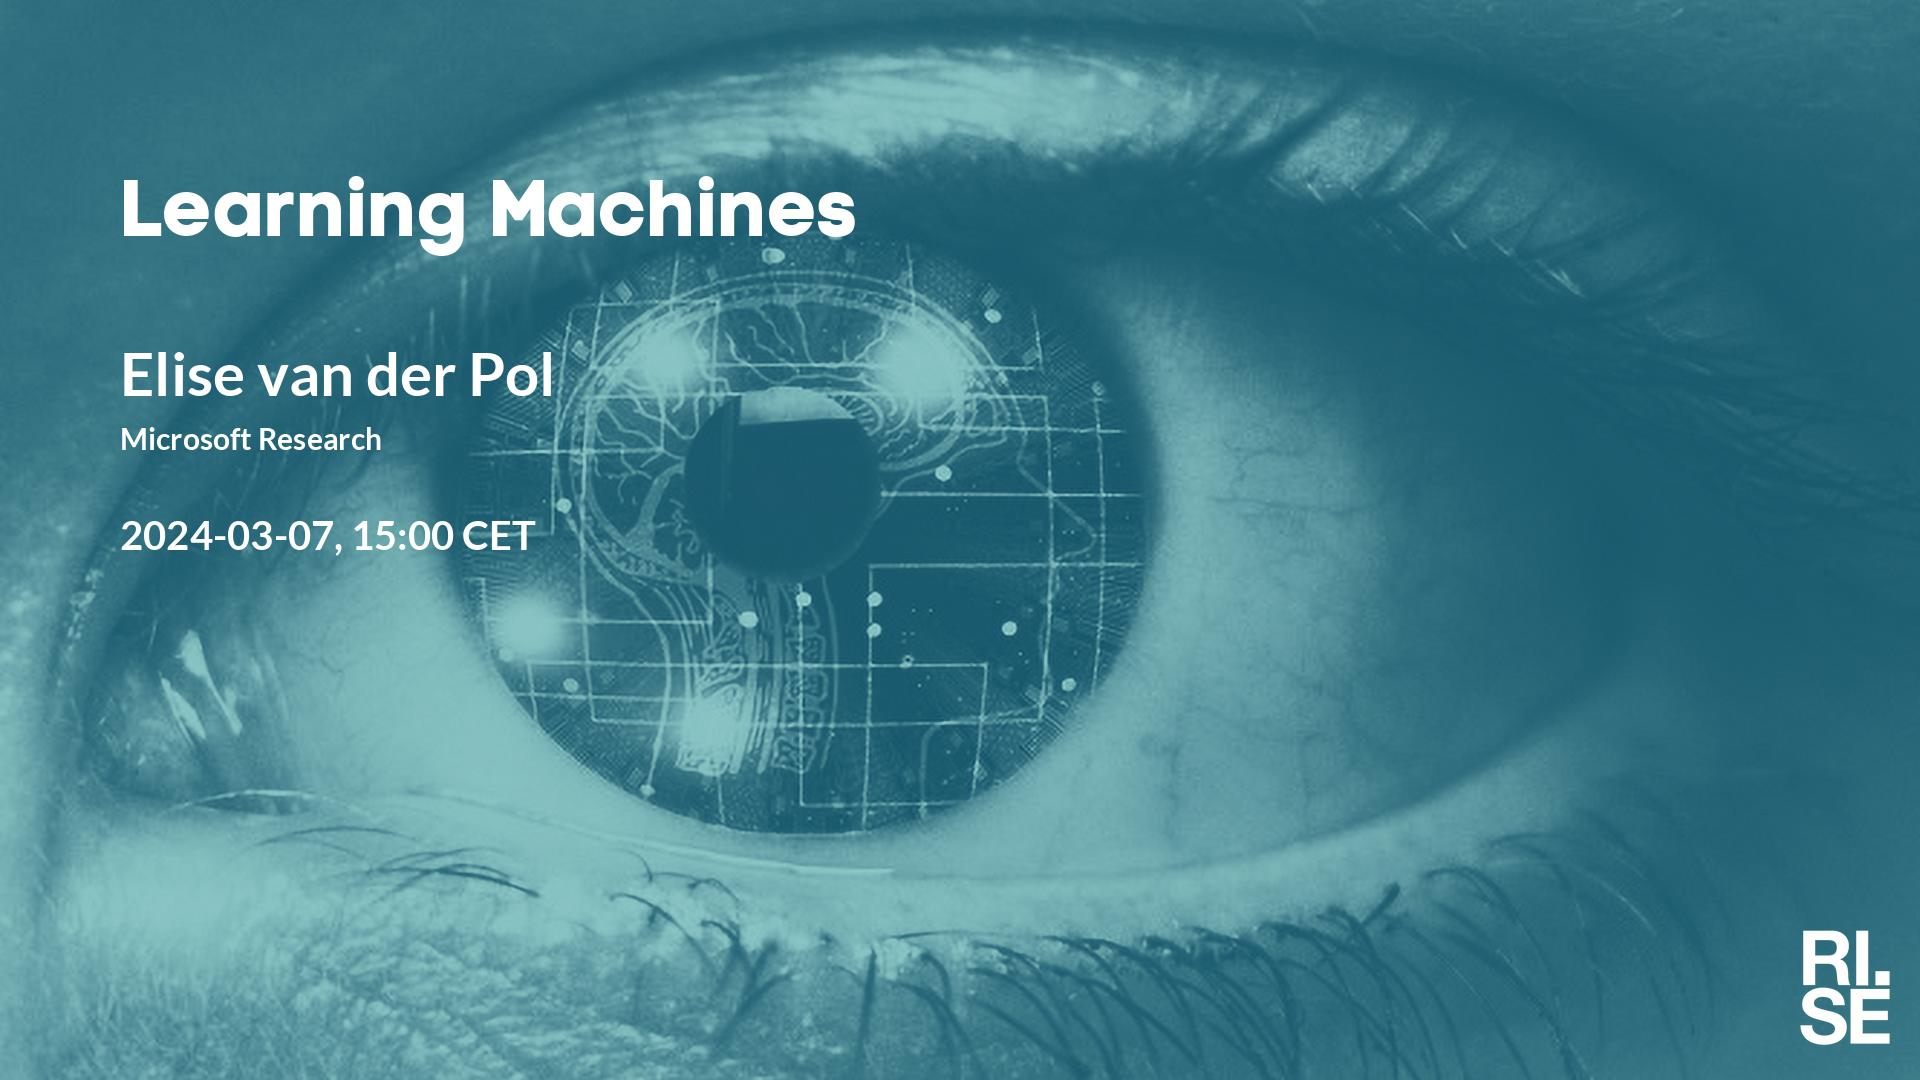
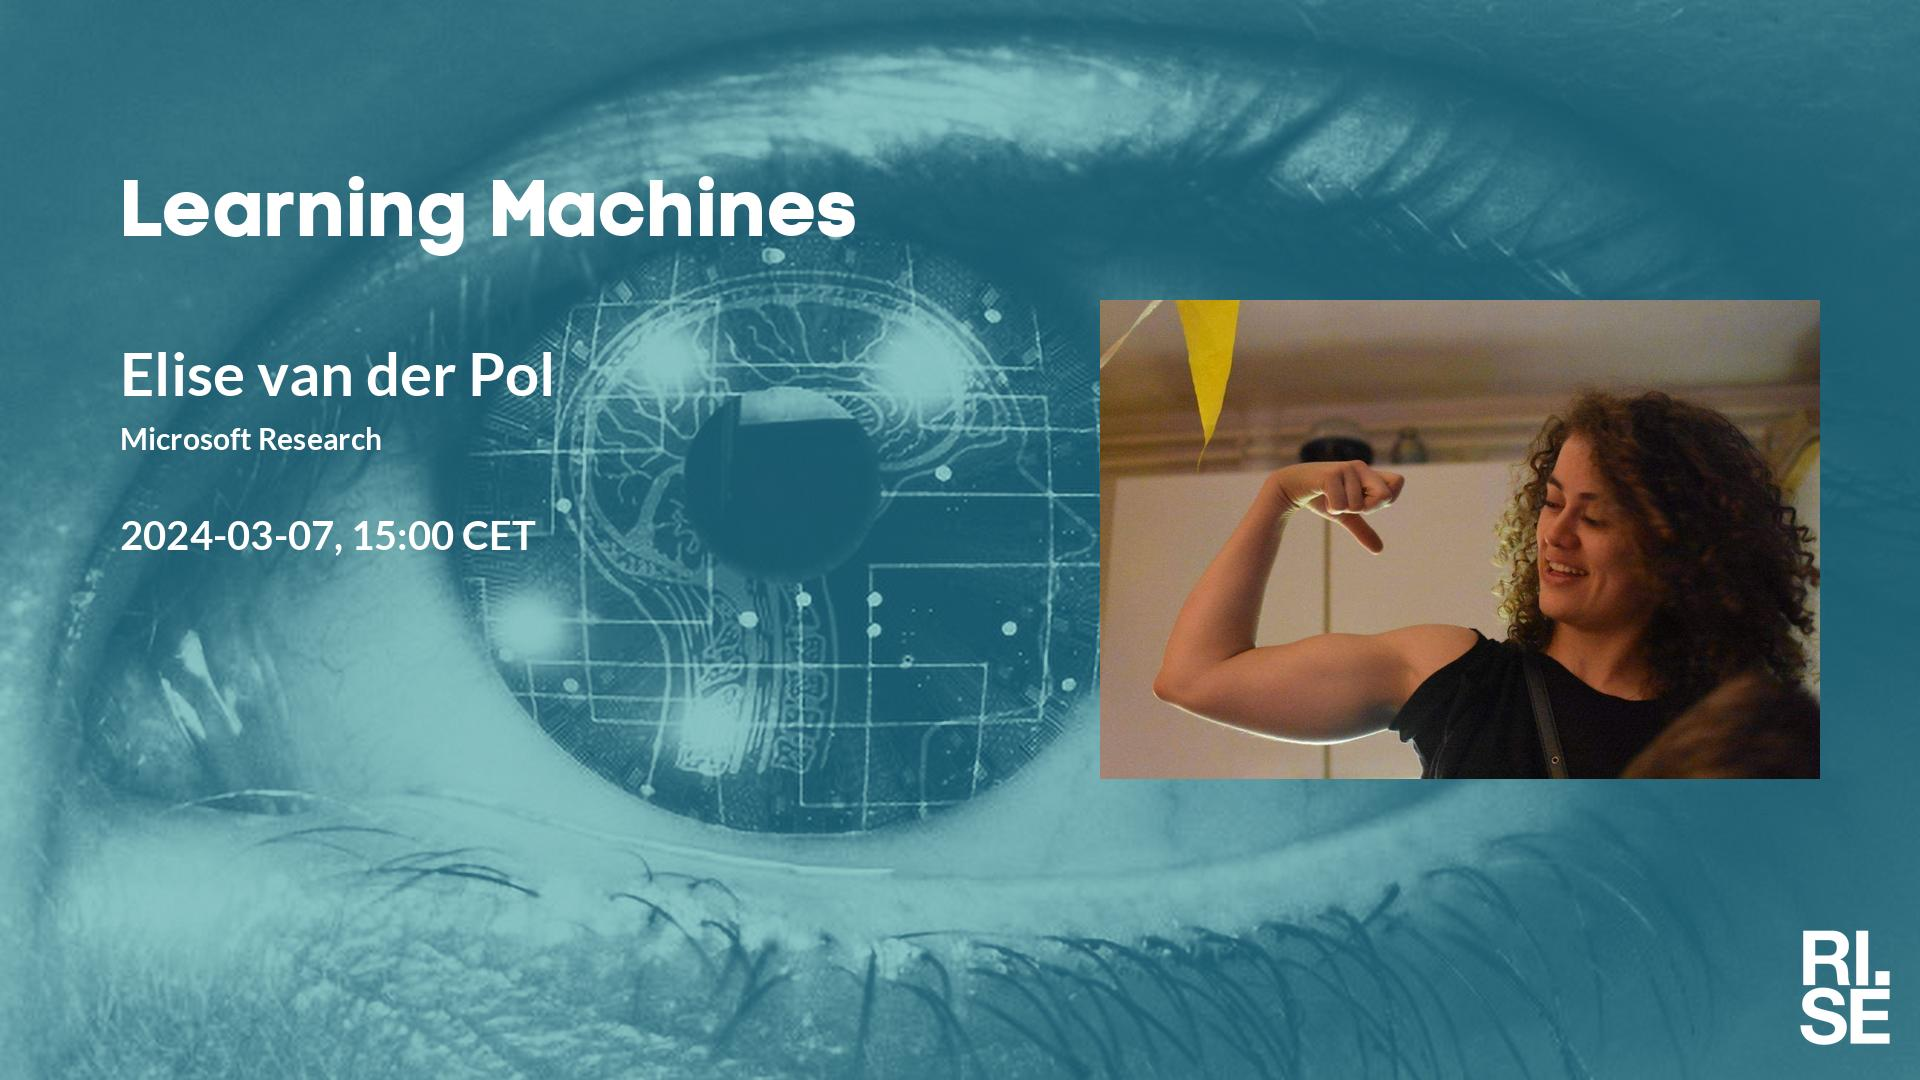
Updated plan on web site.

Changed region(s): [[0.5625, 0.275, 0.9688, 0.7333]]

diff --git a/lm/index.md b/lm/index.md
@@ -27,7 +27,7 @@ table {border-collapse: collapse;}
 | <span style="color:red"> 2024-02-15 </span> | <span style="color:red"> Sportlov </span> | <span style="color:red">  </span> | <span style="color:red">  </span> | <span style="color:red">  </span> | <span style="color:red">  </span> | <span style="color:red"> CANCELLED </span> |
 |  2024-02-22  |  [Alexander Mathis, EPFL](2024-02-22.md)  |    |  [social media ](social-media-alexander-mathis.jpg)  |  [meeting backdrop ](meeting-backdrop-alexander-mathis.jpg)  |  [youtube thumbnail ](youtube-thumbnail-alexander-mathis.jpg)  |  STAB~~P~~  |
 | <span style="color:red"> 2024-02-29 </span> | <span style="color:red"> Sportlov </span> | <span style="color:red">  </span> | <span style="color:red">  </span> | <span style="color:red">  </span> | <span style="color:red">  </span> | <span style="color:red"> CANCELLED </span> |
-|  2024-03-07  |  [Elise van der Pol, Microsoft Research](2024-03-07.md)  |    |  [social media ](social-media-elise-van-der-pol.jpg)  |  [meeting backdrop ](meeting-backdrop-elise-van-der-pol.jpg)  |  [youtube thumbnail ](youtube-thumbnail-elise-van-der-pol.jpg)  |  S~~TABP~~  |
+|  2024-03-07  |  [Elise van der Pol, Microsoft Research](2024-03-07.md)  |  [photo](photo-elise-van-der-pol.jpg)  |  [social media ](social-media-elise-van-der-pol.jpg)  |  [meeting backdrop ](meeting-backdrop-elise-van-der-pol.jpg)  |  [youtube thumbnail ](youtube-thumbnail-elise-van-der-pol.jpg)  |  S~~TAB~~P  |
 | <span style="color:purple"> 2024-03-14 </span> | <span style="color:purple"> *Up for grabs!!!* </span> | <span style="color:purple">  </span> | <span style="color:purple">  </span> | <span style="color:purple">  </span> | <span style="color:purple">  </span> | <span style="color:purple"> ~~STABP~~ </span> |
 | <span style="color:purple"> 2024-03-21 </span> | <span style="color:purple"> *Up for grabs!!!* </span> | <span style="color:purple">  </span> | <span style="color:purple">  </span> | <span style="color:purple">  </span> | <span style="color:purple">  </span> | <span style="color:purple"> ~~STABP~~ </span> |
 | <span style="color:purple"> 2024-03-28 </span> | <span style="color:purple"> *Up for grabs!!!* </span> | <span style="color:purple">  </span> | <span style="color:purple">  </span> | <span style="color:purple">  </span> | <span style="color:purple">  </span> | <span style="color:purple"> ~~STABP~~ </span> |
